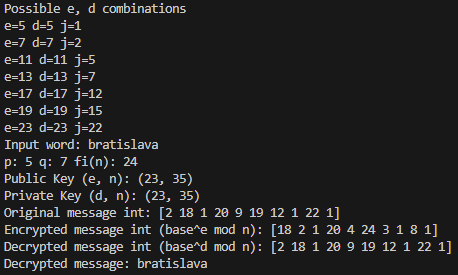
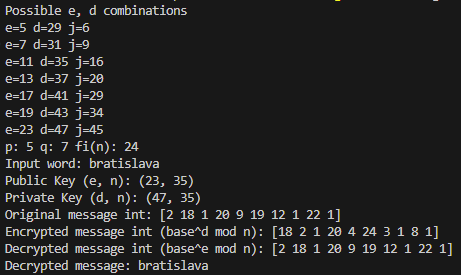
fix

Changed region(s): [[0.0, 0.0, 1.0, 1.0]]

diff --git a/week8/main.go b/week8/main.go
@@ -49,8 +49,8 @@ func findFiCoprimes(fi, maxJ int) (int, int) {
 						fmt.Printf("e=%d d=%d j=%d\n", e, d, j)
 						e_out = e
 						d_out = d
+						break
 					}
-					break
 				}
 			}
 		}
@@ -64,7 +64,7 @@ func main() {
 	encryptPrivate := flag.Bool("ep", false, "Use public key for encryption (default: false)")
 	p := flag.Int("p", 9, "Prime number p")
 	q := flag.Int("q", 11, "Prime number q")
-	maxJ := flag.Int("j", 1000, "Maximum j for finding d")
+	maxJ := flag.Int("j", 80, "Maximum j for finding d")
 
 	flag.Parse()
 

diff --git a/week8/report08.md b/week8/report08.md
@@ -21,28 +21,27 @@ fi(n) = 4 x 6
 fi(n) = 24
 
 e random number coprime with fi(n)
-1 < e < fi(n) - 1
-the thing is that there is no such e that would have different d for this excercise, but I will take it nonetheless
+1 < e < fi(n)
 e = 5
 
 e x d = 1 mod fi(n)
 5 x d = 1 mod 24
 A^-1 = (1+24*j)/5
 
-j = 1..24-1
+find first j for which the result is int, and != e 
 ...
-1 -> (1 + 24*1)/5 = 5
+6 -> (1 + 24*6)/5 = 29
 
 (e,n) - public key 
 (5,35)
 (d,n) - private key
-(5,35)
+(29,35)
 
 bratislava
 2 18 1 20 9 19 12 1 22 1
 
 Encryption (d,n):
-2^5 mod 35 = 32
+2^29 mod 35 = 32
 ...
 
 Decryption (e,n)
@@ -73,7 +72,7 @@ fi(n) = 8 x 10
 fi(n) = 80
 
 e random number coprime with fi(n)
-1 < e < fi(n) - 1
+1 < e < fi(n)
 Here we take into account only e != d
 e = 77
 
@@ -81,7 +80,7 @@ e x d = 1 mod fi(n)
 77 x d = 1 mod 80
 A^-1 = (1+80*j)/77
 
-j = 1..80-1
+find first j for which the result is int, and != e 
 ...
 1 -> (1 + 80*51)/77 = 53
 
@@ -108,7 +107,7 @@ Decryption (d,n)
 
 3.1 Write out all possible public keys when the numbers p = 7 and q = 11 as random numbers for the RSA algorithm.
 
-Let's take into account only e != d cases.
+Let's take into account only e != d cases. Results can vary based on max_j parameter, for Task 3 I set max_j to fi(n).
 
 ![](../assets/8-3.png)
 
